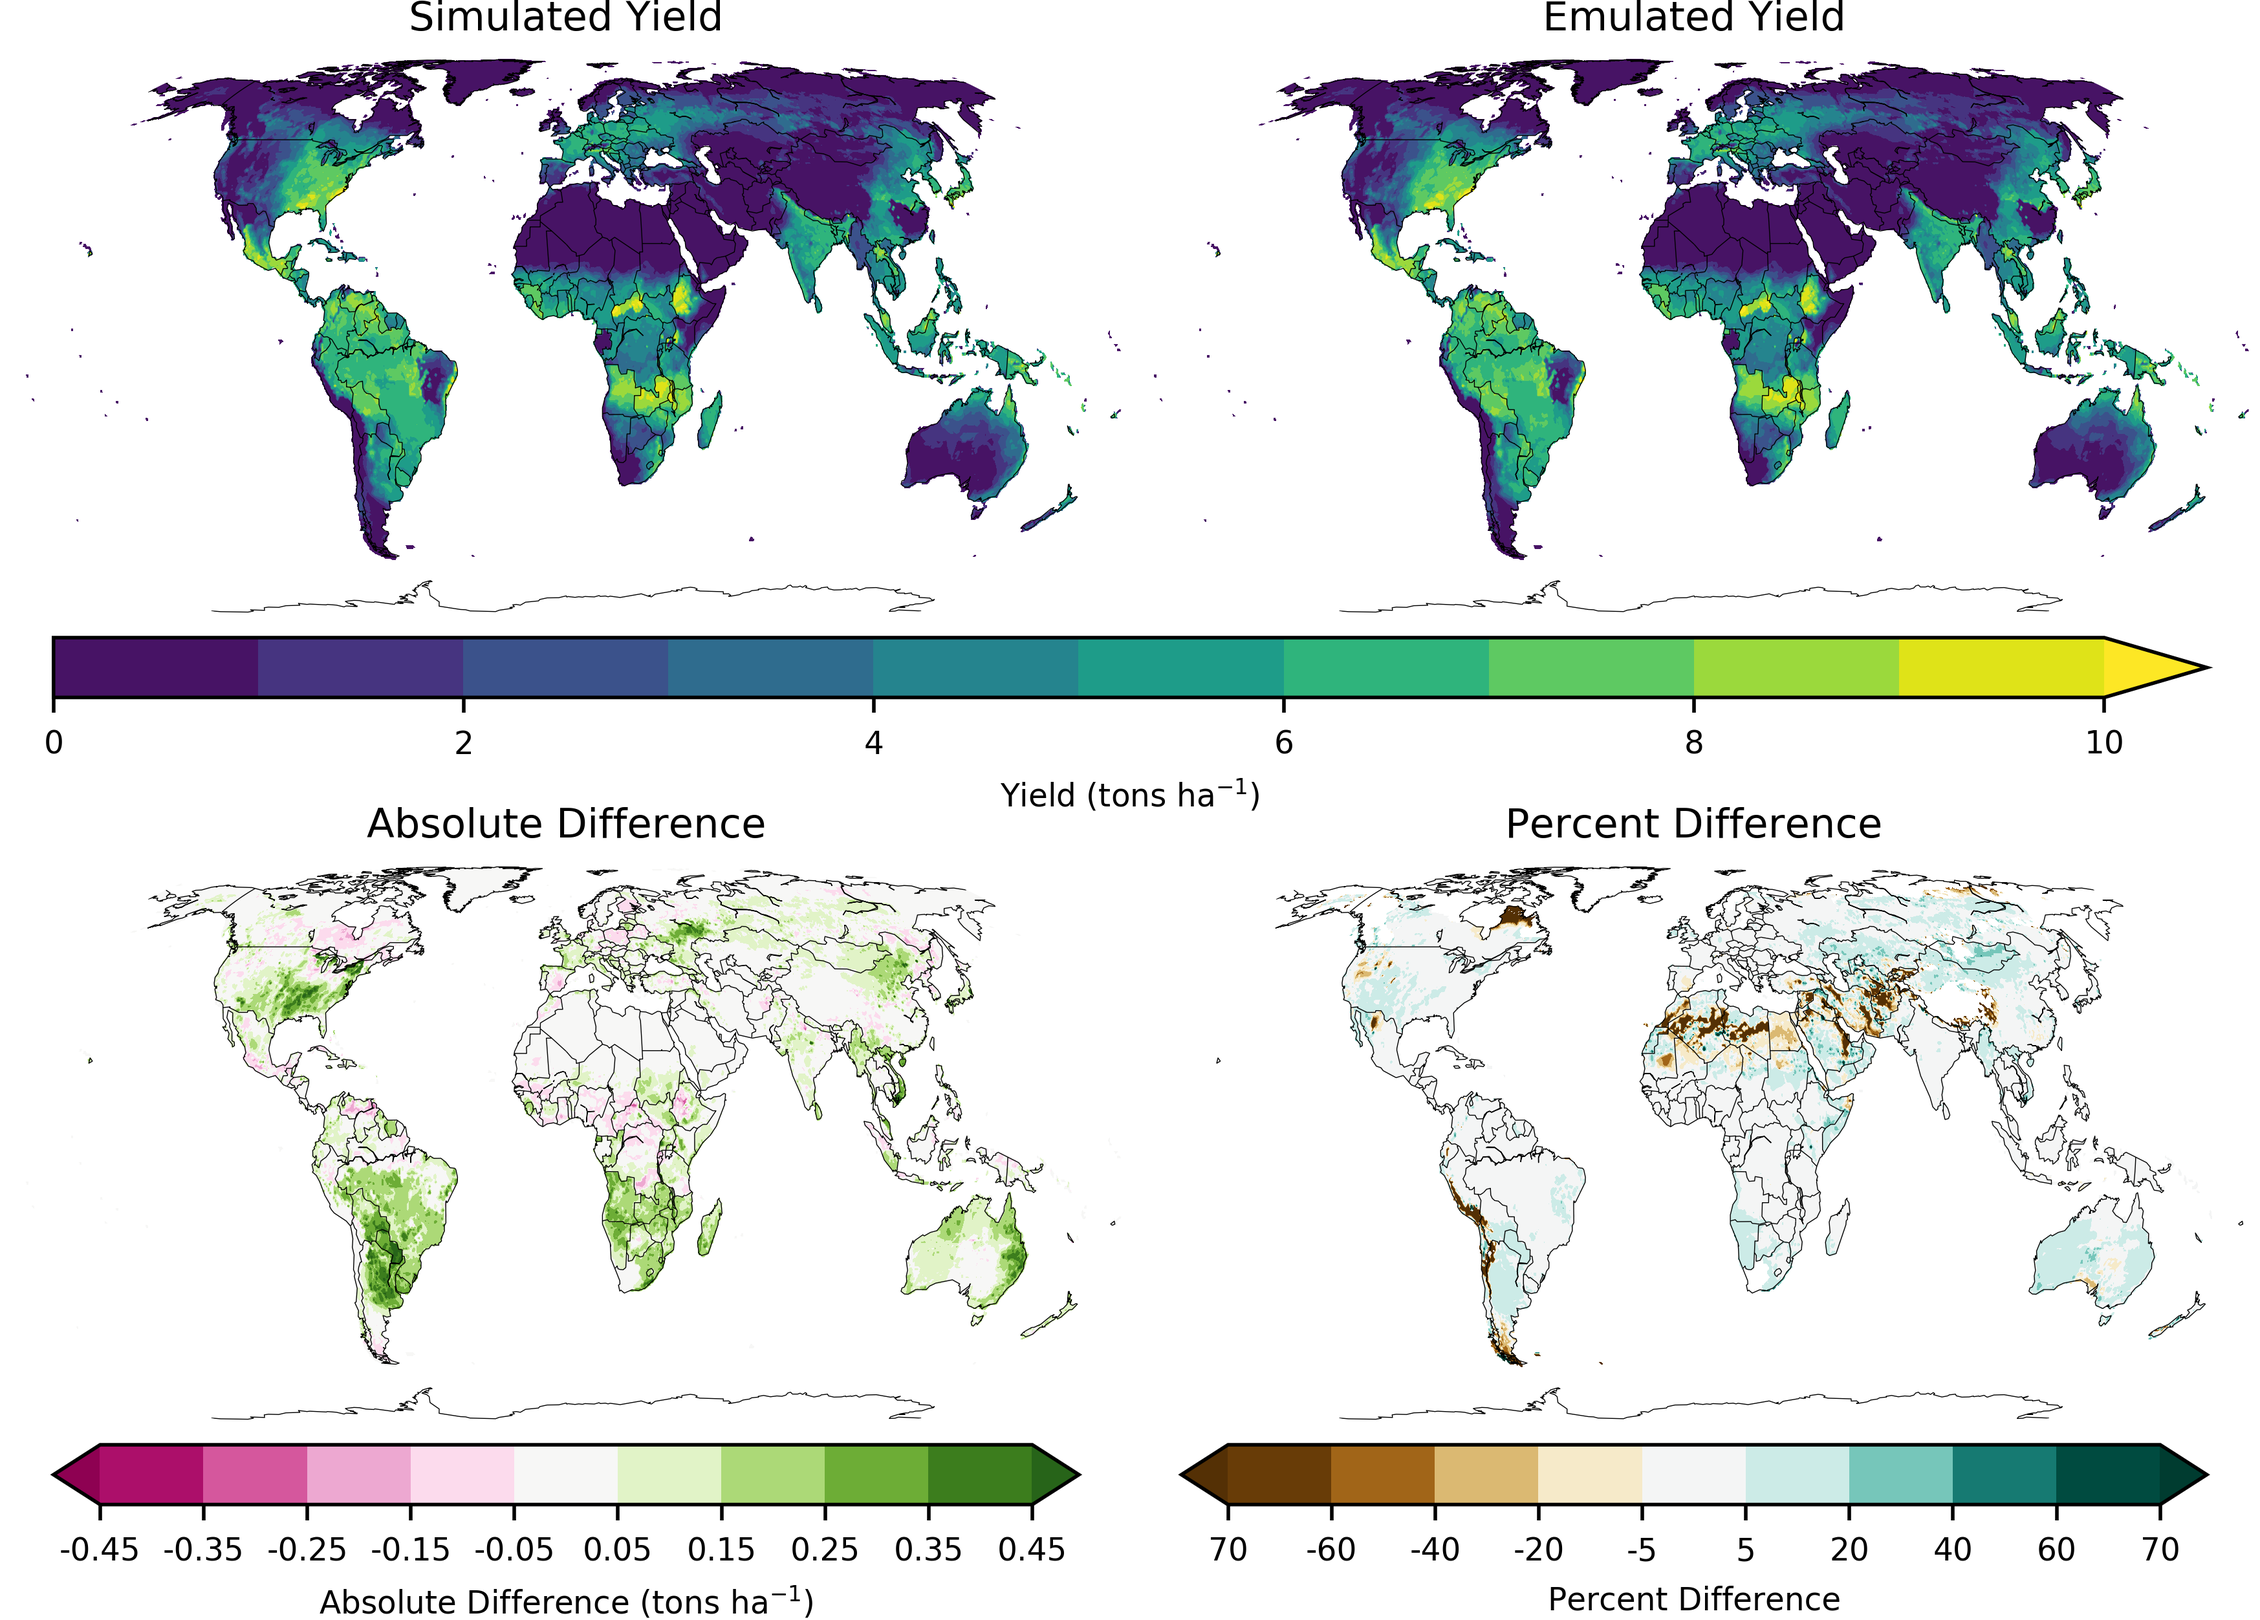
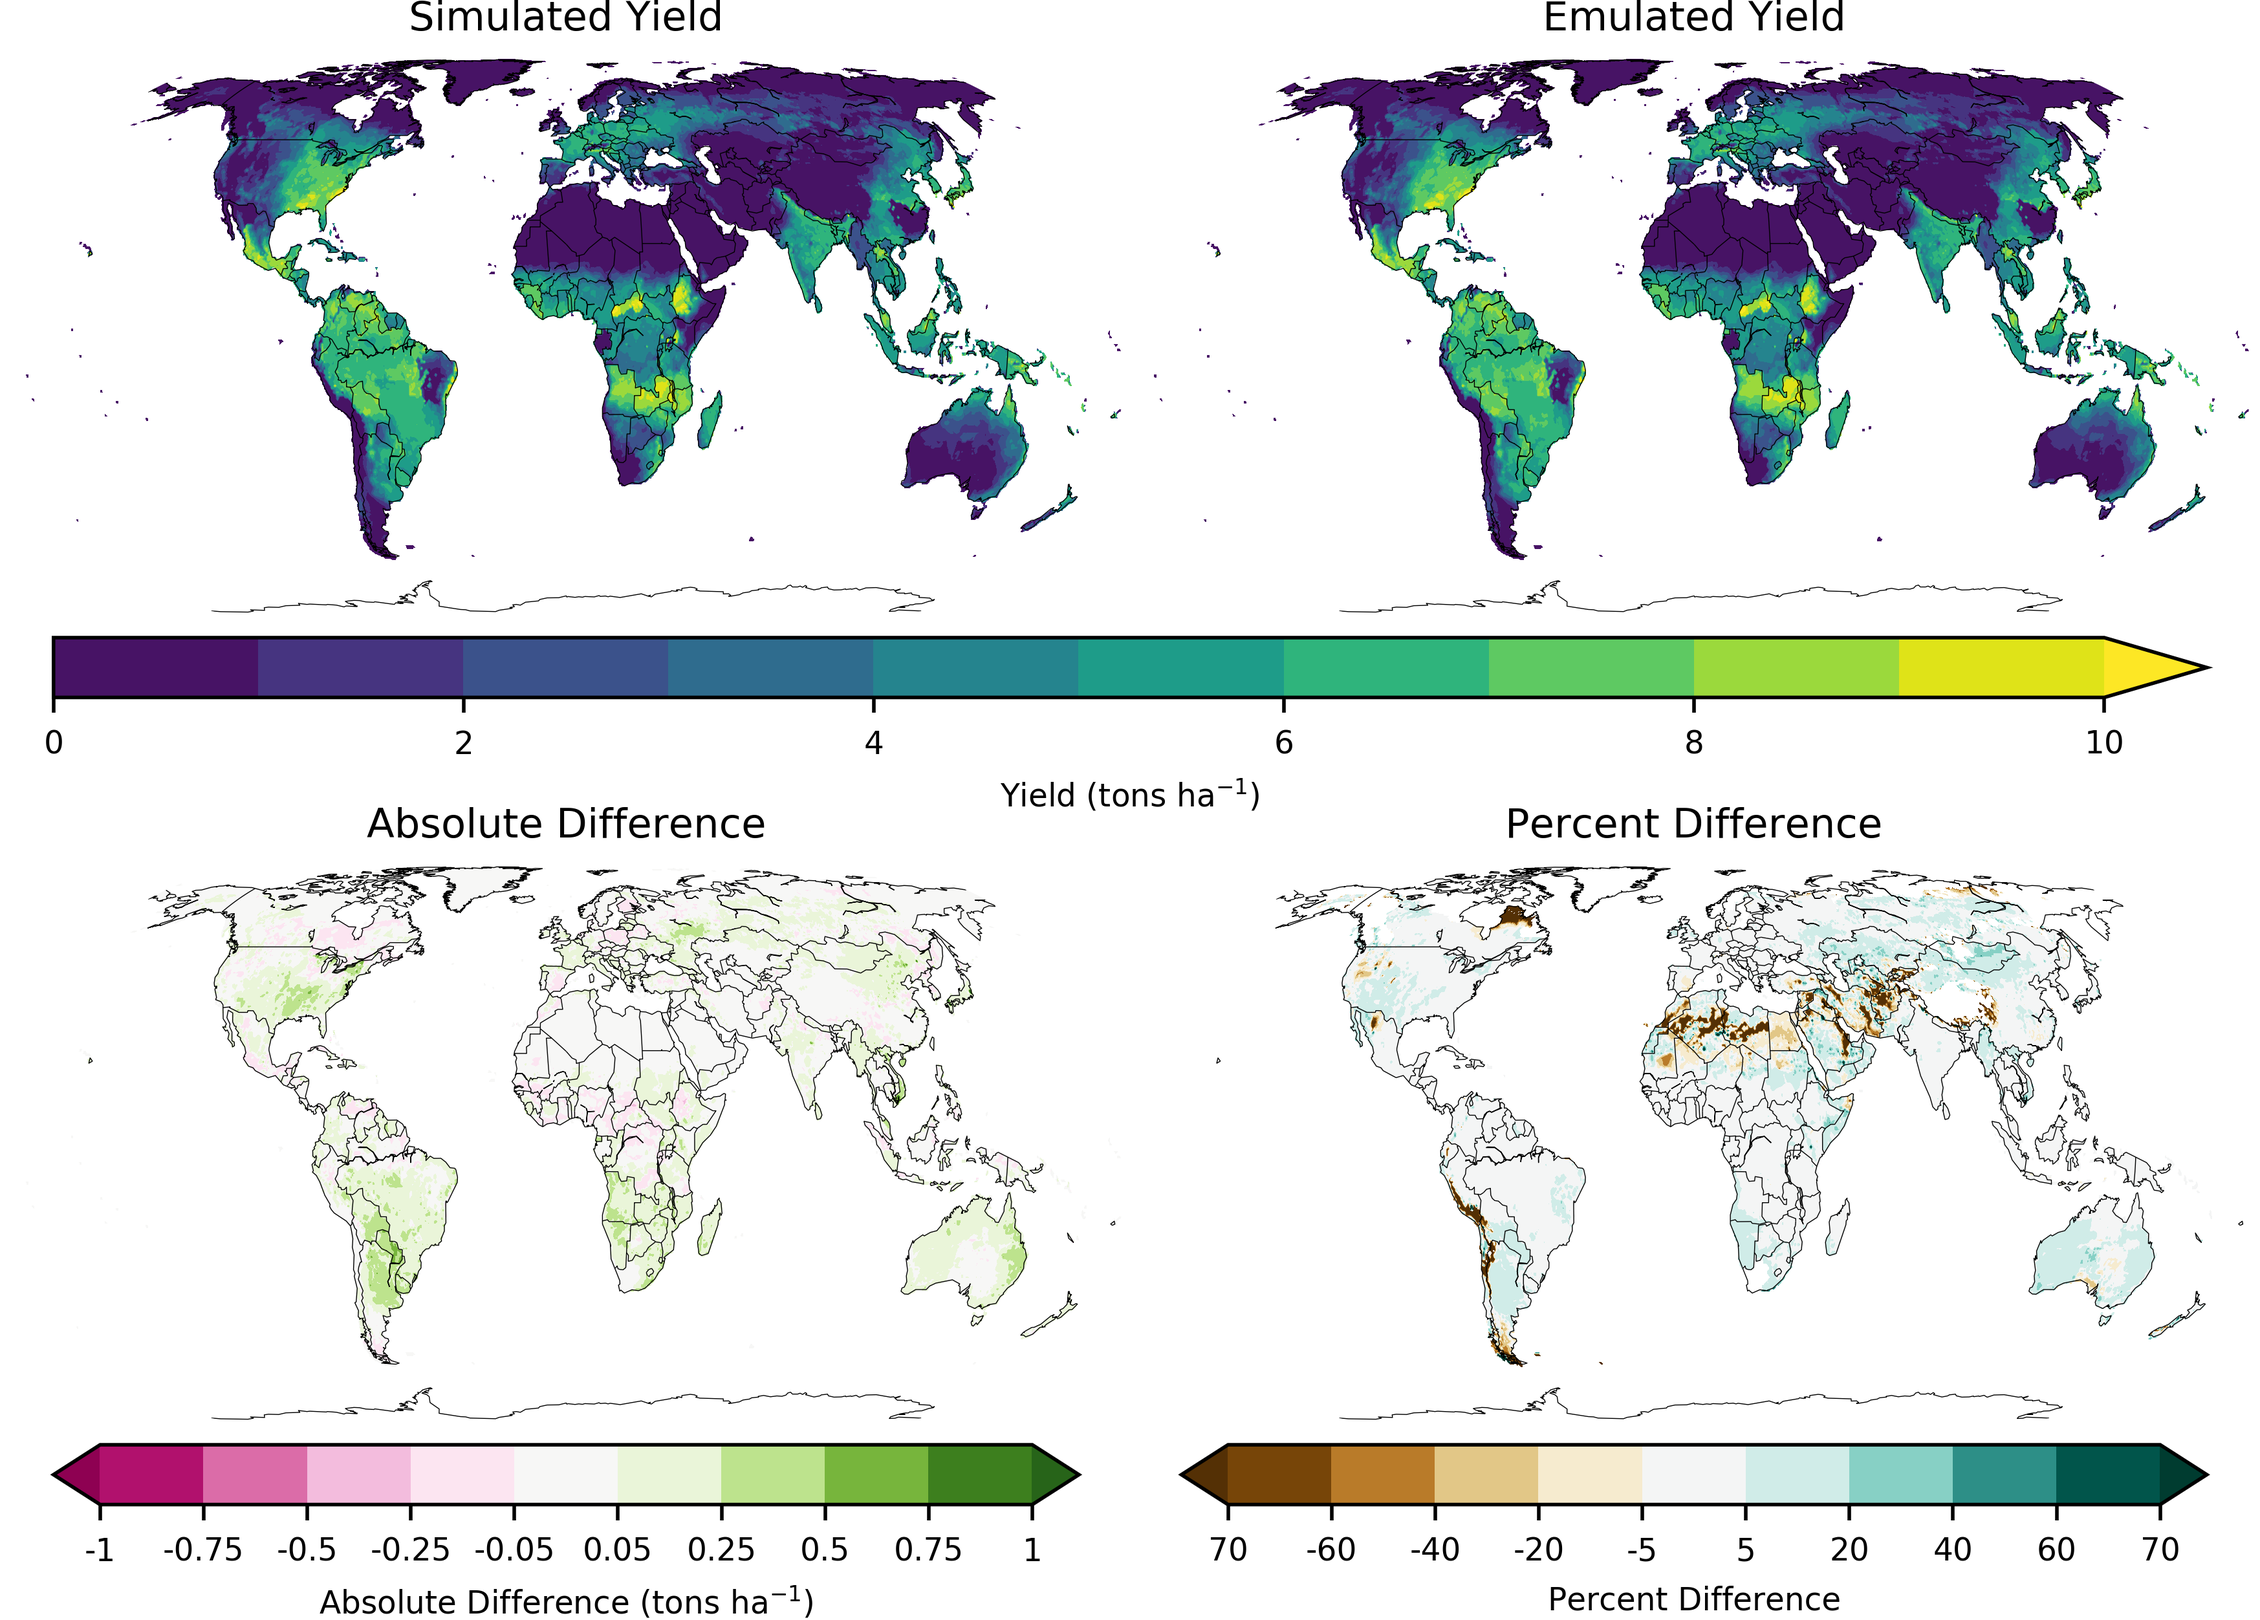
new fig

diff --git a/Part2/main2.tex b/Part2/main2.tex
@@ -301,14 +301,17 @@ The yield output for a single GGCMI Phase II model that simulates all scenarios 
 \begin{figure*}[ht]
 \centering
     \includegraphics[width=15cm]{figures/lpjml_maize.png}
-    \caption{Illustration of spatial pattern in baseline yield successfully captured by the emulator. 
-    Top row: rainfed maize in the pDSSAT model in six example locations selected to represent high-cultivation areas around the globe. 
-    Legend includes hectares cultivated in each selected grid cell. 
-    Bottom row: simulations and emulations from six models for rainfed maize in the same Iowa grid cell shown in the top row. 
-    Models that do not simulate the nitrogen dimension are omitted for clarity.
-    Each panel shows variation along a single variable, with others held at baseline values. 
-    Dots show climatological mean yields and lines the results of the full 4D emulator of Equation \ref{eqn:features_final}. }
-   \label{fig:regression}
+    \caption{Illustration of spatial pattern in baseline yield successfully captured by the emulator.
+    Simulated and emulated yield under historical (1981-2010) conditions for rainfed maize from the LPJmL model.
+    Absolute yield differences are less that 0.5 ton ha$^{-1}$ in almost all (99.8\%) grid cells across the globe.
+    Percent differences (from simulated baseline) is below 5\% in most (75\%) grid cells currently cultivated in the real world.
+    Approximately 7\% of grid cells have errors over 20\% different from baseline, but only 3\% of grid cells with current cultivation (MIRCA) have errors over 20\%.
+    Notable exceptions include areas with very low baseline yield in the simulations including, for example, the Sahara, the Andes, and northern Quebec. 
+    Percent error weighted by cultivation area globally is essentially zero (see also Table \ref{table:ASE}).
+    Performance varies by crop and model. 
+    See supplemental for more examples.
+    }
+   \label{fig:map_pattern}
 \end{figure*}
 
 
@@ -316,17 +319,15 @@ The yield output for a single GGCMI Phase II model that simulates all scenarios 
 \centering
     \includegraphics[width=15cm]{figures/regression_example.png}
     \caption{Illustration of spatial and across model variations in yield response successfully captured by the emulator. 
-    Top row: rainfed maize in the pDSSAT model in six example locations selected to represent high-cultivation areas around the globe. 
+    Top row: simulations and emulations for rainfed maize in the pDSSAT model in six example locations selected to represent high-cultivation areas around the globe. 
     Legend includes hectares cultivated in each selected grid cell. 
     Bottom row: simulations and emulations from six models for rainfed maize in the same Iowa grid cell shown in the top row. 
     Models that do not simulate the nitrogen dimension are omitted for clarity.
     Each panel shows variation along a single variable, with others held at baseline values. 
     Dots show climatological mean yields and lines the results of the full 4D emulator of Equation \ref{eqn:features_final}. 
     In general the climatological response surface is sufficiently smooth that it can be represented within the sampled variable space by the simple polynomial used in this work. 
-
     While most model responses can readily emulated with a simple polynomial, some response surfaces diverge slightly from the polynomial approach (e.g.\ LPJ-GUESS here) and lead to emulation error, though error generally remains small relative to inter-model uncertainty. 
-    Note that models are uncalibrated, increasing spread in absolute yields. 
-    Extrapolation can however produce misleading results. 
+    Note that some models are uncalibrated, increasing spread in absolute yields. 
     Nitrogen fits in some cases may not be realistic at intermediate values given limited sampling.
     }
    \label{fig:regression}
